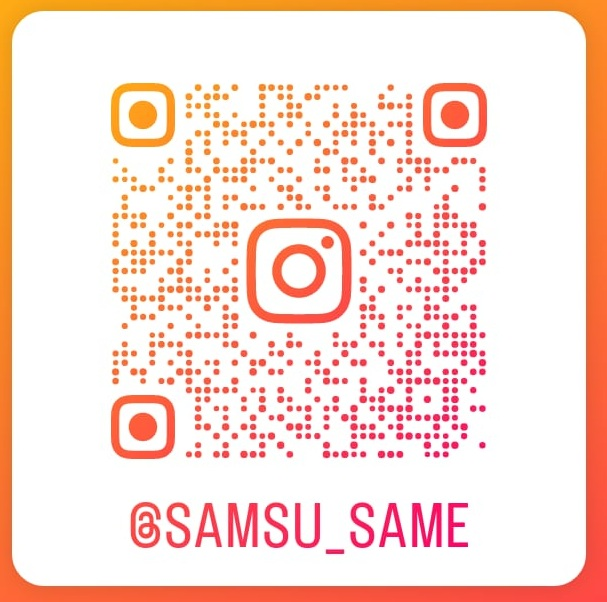
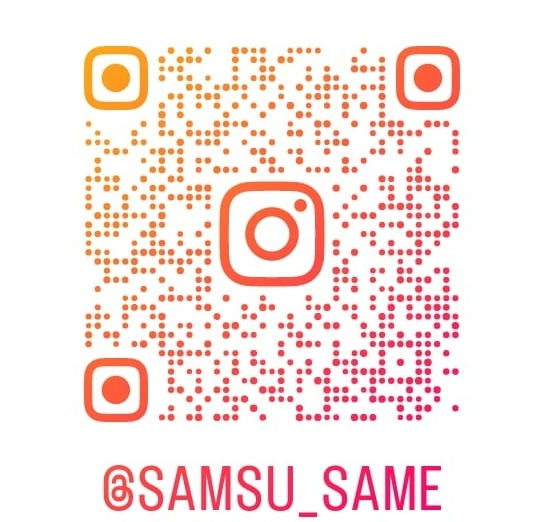
contact: added instagram Bar code

diff --git a/src/components/Contact.jsx b/src/components/Contact.jsx
@@ -35,7 +35,7 @@ const Contact = () => {
       whileInView={{ opacity: 1, y: 0 }}
       transition={{ duration: 0.5 }}
       id="contact"
-      className="p-4 bg-gray-50"
+      className="p-4 bg-white"
     >
           <div className="container mx-auto">
               {/* Centered Header with Icon */}
@@ -106,26 +106,25 @@ const Contact = () => {
                       </motion.div>
 
                       {/* Instagram QR Code Card */}
-                      {/* <motion.div
-                          className="flex flex-col md:flex-row items-center justify-center bg-gray-800 p-6 rounded-lg shadow-lg"
+                      <motion.div
+                          className="flex flex-col md:flex-row items-center justify-center "
                           initial={{ opacity: 0, y: 50 }}
                           whileInView={{ opacity: 1, y: 0 }}
                           transition={{ duration: 0.5 }}
                       >
-                          <div className="w-full md:w-4/5  flex justify-center">
+                          <div className="w-full rounded-lg shadow-md flex justify-center p-2">
                               <img
                                   src="/images/instagram.jpg"
                                   alt="Instagram QR Code"
-                                  className="w-full h-64 md:h-96 object-cover rounded-lg shadow-md mask mask-circle"
-                              />
-                              
+                                  className="w-full h-64 md:h-96 object-contain  mask mask-circle"
+                              />      
                           </div>
 
-                          <div className="w-full md:w-1/5  flex flex-col items-center md:items-start text-center md:text-left mt-6 md:mt-0 md:ml-8">
+                          {/* <div className="w-full md:w-1/5  flex flex-col items-center md:items-start text-center md:text-left mt-6 md:mt-0 md:ml-8">
                               <h3 className="text-2xl font-semibold text-white">Instagram</h3>
                               <p className="text-gray-200 mt-2">Scan to follow me</p>
-                          </div>
-                      </motion.div> */}
+                          </div> */}
+                      </motion.div>
                       
                   </motion.div>
                   {/* Form and Cards Container */}
